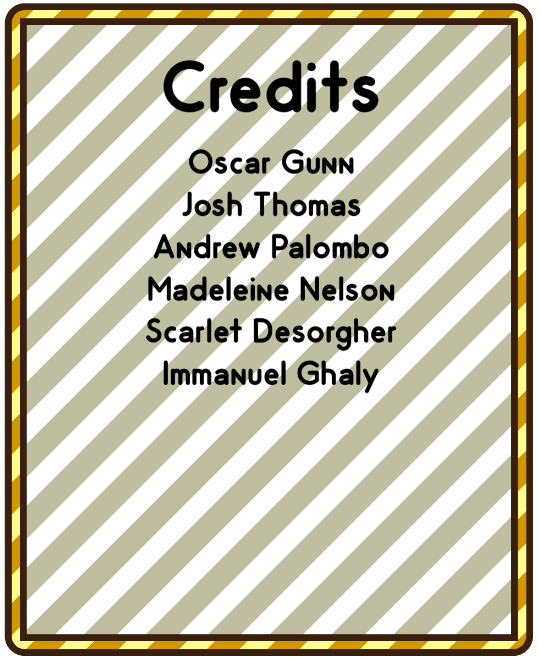
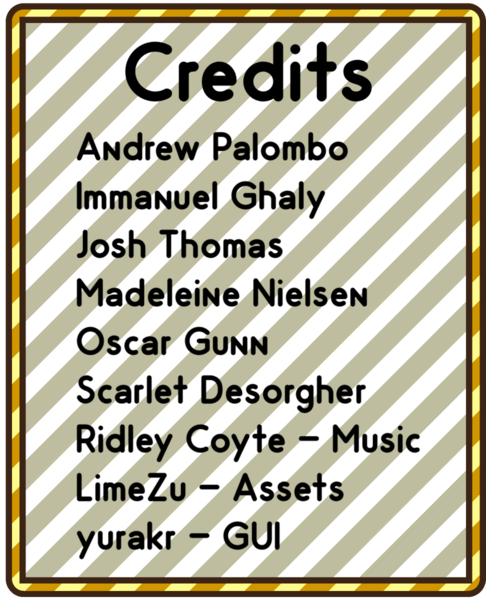
Added new credits menu

diff --git a/PiazzaPanic/core/src/com/mygdx/game/Screens/CreditsScreen.java b/PiazzaPanic/core/src/com/mygdx/game/Screens/CreditsScreen.java
@@ -15,9 +15,11 @@ import com.mygdx.game.PiazzaPanic;
 
 public class CreditsScreen implements Screen{
     PiazzaPanic game;
-    Texture credits;
-    Texture backBtnTex;
-    Texture backBtnTexHover;
+    Texture credits = new Texture("credits.png");
+    Texture backBtnTex = new Texture("backBtn.png");
+    Texture backBtnTexHover = new Texture("backBtn2.png");
+    Texture assetsInfoBtnTex = new Texture("infoBtn_50.png");
+    Texture GUIInfoBtnTex = new Texture("infoBtn_50.png");
     
     FitViewport view;
     Stage gameStage;
@@ -29,16 +31,20 @@ public class CreditsScreen implements Screen{
     TextureRegion backBtnRegionHover;
     TextureRegionDrawable backBtnDrawableHover;
 
+    TextureRegion assetsInfoRegion;
+    TextureRegionDrawable assetsInfoDrawable;
+    ImageButton assetsInfoBtn;
+
+    TextureRegion GUIInfoRegion;
+    TextureRegionDrawable GUIInfoDrawable;
+    ImageButton GUIInfoBtn;
+
     public CreditsScreen(PiazzaPanic game){
         this.game = game;
     }
 
     @Override
     public void show() {
-        credits = new Texture("credits2.png");
-        backBtnTex = new Texture("backBtn.png");
-        backBtnTexHover = new Texture("backBtn2.png");
-
         view = new FitViewport(game.GAME_WIDTH, game.GAME_HEIGHT);
         view.getCamera().position.set(game.GAME_WIDTH / 2, game.GAME_HEIGHT / 2, 1f);
         gameStage = new Stage(view, game.batch);
@@ -47,6 +53,14 @@ public class CreditsScreen implements Screen{
         backBtnRegion = new TextureRegion(backBtnTex);
         backBtnDrawable = new TextureRegionDrawable(backBtnRegion);
         backBtn = new ImageButton(backBtnDrawable);
+
+        assetsInfoRegion = new TextureRegion(assetsInfoBtnTex);
+        assetsInfoDrawable = new TextureRegionDrawable(assetsInfoRegion);
+        assetsInfoBtn = new ImageButton(assetsInfoDrawable);
+
+        GUIInfoRegion = new TextureRegion(GUIInfoBtnTex);
+        GUIInfoDrawable = new TextureRegionDrawable(GUIInfoRegion);
+        GUIInfoBtn = new ImageButton(GUIInfoDrawable);
 
         //hovered button
         backBtnRegionHover = new TextureRegion(backBtnTexHover);
@@ -65,6 +79,30 @@ public class CreditsScreen implements Screen{
                 backBtn.setStyle(backNormal.getStyle());
             }
         });
+
+        assetsInfoBtn.addListener(new ClickListener(){
+            @Override
+            public void clicked(InputEvent event, float x, float y) {
+                Gdx.net.openURI("https://limezu.itch.io/");
+                super.clicked(event, x, y);
+            }
+        });
+
+        GUIInfoBtn.addListener(new ClickListener(){
+            @Override
+            public void clicked(InputEvent event, float x, float y) {
+                Gdx.net.openURI("https://www.gamedevmarket.net/asset/game-gui-free/");
+                super.clicked(event, x, y);
+            }
+        });
+        
+        //place buttons on stage
+        gameStage.addActor(backBtn);
+        backBtn.setPosition(0,game.GAME_HEIGHT-backBtn.getHeight());
+        assetsInfoBtn.setPosition(735, 145);
+        GUIInfoBtn.setPosition(677, 98);
+        gameStage.addActor(assetsInfoBtn);
+        gameStage.addActor(GUIInfoBtn);
     }
 
     @Override
@@ -76,18 +114,14 @@ public class CreditsScreen implements Screen{
 
         game.batch.setProjectionMatrix(view.getCamera().combined);
 		game.batch.begin();
-		game.batch.draw(credits, ((game.GAME_WIDTH/2) - (credits.getWidth()/2)), 30);
+		game.batch.draw(credits, ((game.GAME_WIDTH/2) - (credits.getWidth()/2)), 60);
 		game.batch.end();
 
         gameStage.getViewport().apply();
-        
-        gameStage.addActor(backBtn);
-        backBtn.setPosition(0,game.GAME_HEIGHT-backBtn.getHeight());
 
         if (backBtn.isPressed()){
             game.setScreen(new MainMenuScreen(game));
         }
-
         Gdx.input.setInputProcessor(gameStage);
         gameStage.draw();
     }
